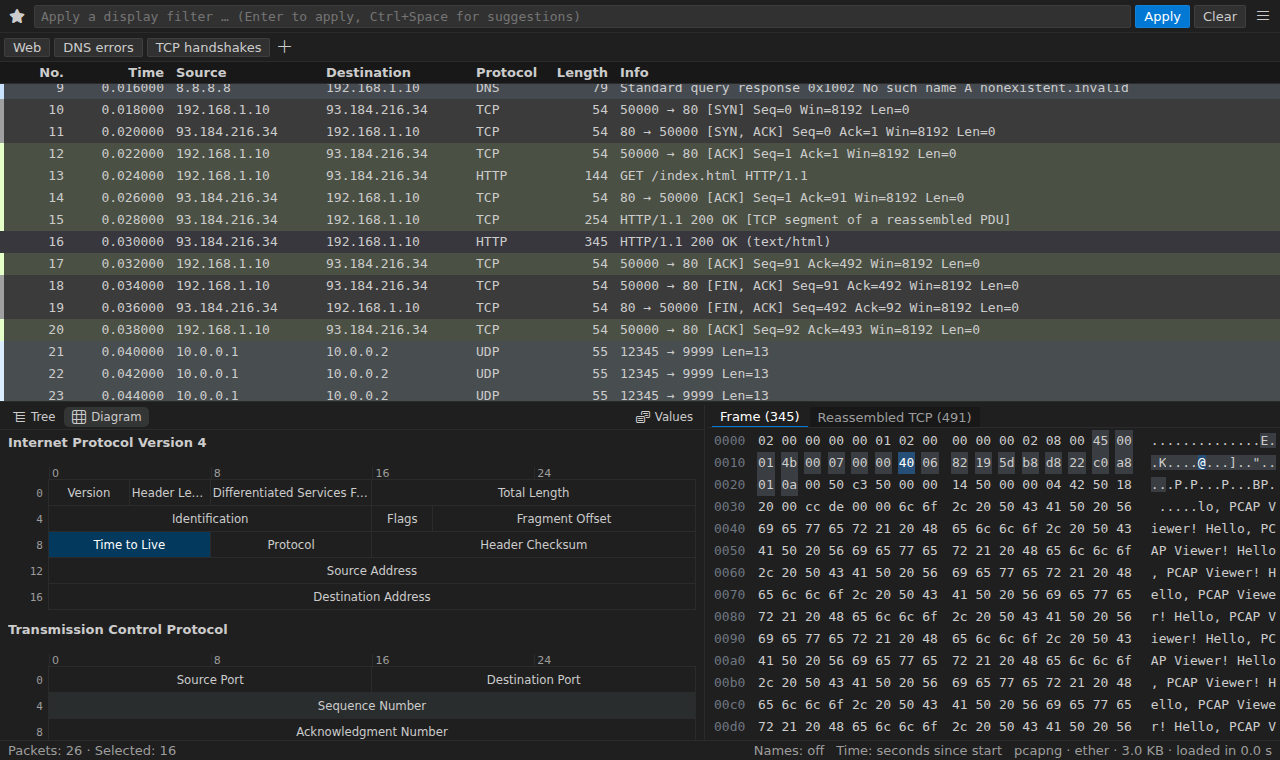
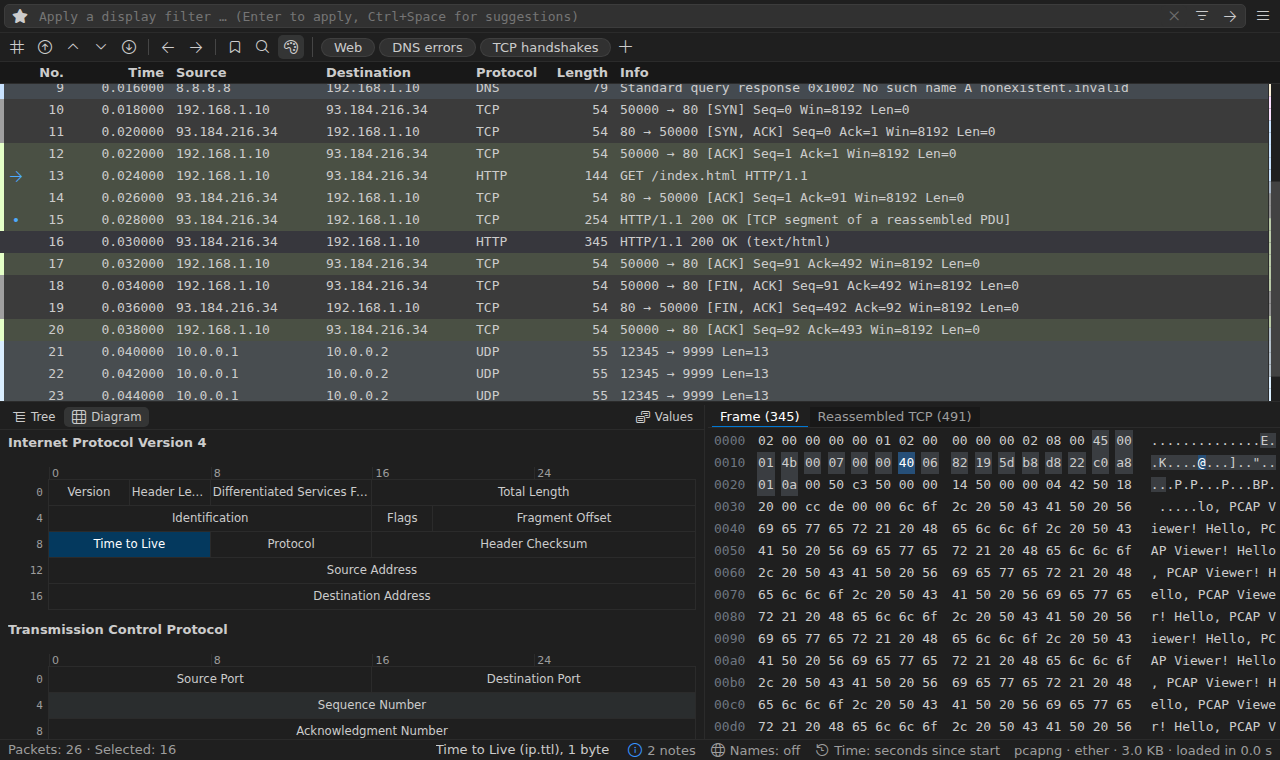
Docs and screenshots for the new menus and toolbar
Claude-Session: https://claude.ai/code/session_01SNBgFKKXN7HF4mNJjCzgic

diff --git a/CLAUDE.md b/CLAUDE.md
@@ -188,7 +188,8 @@ type="module" nonce>`: imports inherit the nonce, and VS Code's resource
   part of the UI (`core` = shared state, constants, element lookups and
   rpc, and imports nothing, so it is evaluated first; `host`, `list`,
   `columns`, `selection`, `detail`, `diagram`, `filterbar`, `autocomplete`,
-  `navigation`, menus, `status`…). Function declarations make the cycles
+  `navigation`, `menu` (the context-menu engine), `contextmenu`,
+  `commandmenu`, `toolbar`, `status`…). Function declarations make the cycles
   between modules safe; top-level code only touches `core` and its own
   module. Shared JSDoc types live in `globals.d.ts`. Type-checked via JSDoc +
   `tsconfig.webview.json` (`module: ES2022`). `codicons/` = the vendored Codicons font
@@ -816,7 +817,7 @@ substream)` (`… and http2.streamid eq N`). Views: the text ones
 - **Filter buttons** (`pcapViewer.filterButtons`: `{label, filter, comment?}`,
   `normalizeFilterButtons`, at most 50; window scope like saved filters): the
   host posts `filterButtons` on "ready" and on setting changes; the webview's
-  `#filter-buttons` toolbar (after `#filter-bar`, hidden when empty) applies a
+  `#filter-buttons` toolbar (in `#toolbar` after `#nav-tools`, hidden when empty) applies a
   button's filter on click (it goes into the filter box first) and marks the
   applied one `aria-pressed` (`updateFilterButtons`, from `updateStatus`). **+**
   posts `addFilterButton {filter}`; `contextmenu` (right-click, Shift+F10, the
@@ -1223,10 +1224,11 @@ fields -e frame.number` gives progress when filtering; without a filter
 - **Conversation filter and colorization** (row menu, `lib.conversationFilters`):
   the packet's conversations come from its exact detail tree (the
   innermost `eth.src/dst`, `ip.*`, `ipv6.*`, `tcp.stream`, `udp.stream`;
-  values that aren't addresses or numbers are dropped), shown as a second
-  flat menu at the same spot (`conversationMenu`; it fetches the exact
-  detail when the selected one is missing or a quick view, whose stream
-  numbers are the window's). _Conversation Filter_ applies the filter.
+  values that aren't addresses or numbers are dropped), shown as the
+  _Conversation Filter ›_ / _Colorize Conversation ›_ submenus
+  (`conversationItems`; `exactDetail` fetches the exact detail when the
+  selected one is missing or a quick view, whose stream numbers are the
+  window's). _Conversation Filter_ applies the filter.
   _Colorize Conversation_ posts `colorizeConversation`: the session keeps
   `temporaryRules` (`settingsModel.colorizeConversation`: newest first, the
   first `COLORIZE_PALETTE` color the others don't use, at most ten, i.e.
@@ -1968,15 +1970,17 @@ stream, sessionId}`. The query stays short: expert rows (sanitized by
     _Apply as Column_, rename and remove write for the capture's folder.
     `lib.cellFilter` builds cell filters (ip/ipv6/eth by address form; none for
     Time or Info). `lib.formatBytesAs` has the bytes-pane copy formats.
-- **Commands menu** (☰ `#filter-menu` after `#filter-clear`; `commandMenu.ts`,
+- **Commands menu** (☰ `#filter-menu` after `#filter-field`; `commandMenu.ts`,
   `main.js` `commandsMenu`): the list is built from package.json
   (`context.extension.packageJSON`: `contributes.commands` plus the first
   `contributes.keybindings` entry per command, `buildCommandMenu`), so a new
   command appears by itself; `GROUP_OF` gives its heading (Filters, Packets,
-  Statistics, Export, Capture, Editing, Dissectors, AI, Other; "Packets" was
-  added for navigation, marks, time reference and comments; a unit test fails
-  when a command has no explicit heading, and category "PCAP Statistics"
-  falls back to Statistics) and `REQUIRES` what it needs (selection, marks,
+  Streams, Statistics, Network Statistics, Service Statistics, Telephony,
+  Export, Capture, Editing, Dissectors, AI, Other; "Packets" was added for
+  navigation, marks, time reference and comments, and 0.20.0 split the 30
+  statistics by subject; a unit test fails when a command has no explicit
+  heading, and category "PCAP Statistics" falls back to Statistics; each
+  heading has a Codicon, `lib.COMMAND_GROUP_ICONS`) and `REQUIRES` what it needs (selection, marks,
   filter, capturing, ai). `EXCLUDED_COMMANDS` names what is left out and why
   (only `savedFilters`: the ★ button in the same bar). **Foldable groups**:
   `lib.commandMenuRows` turns the groups into rows (a heading per group,
@@ -2006,10 +2010,68 @@ stream, sessionId}`. The query stays short: expert rows (sanitized by
   (`lib.formatKeybinding`: "Ctrl+Shift+N", or the `mac` binding as "⌘⇧N";
   macOS is detected from the webview's navigator, which is the local machine
   even in a remote window). `.command-menu` reuses `.context-menu`; its
-  colors fall back to system colors when a theme variable is missing. The
-  filter bar wraps (`flex-wrap`, `#filter-field` 14em minimum), so on a
-  narrow editor the buttons go to a second line instead of squeezing the
-  input (e2e test at 320/480/800 px).
+  colors fall back to system colors when a theme variable is missing.
+  **Recently Used**: the last `MAX_RECENT_COMMANDS` (5) commands run from the
+  menu (`lib.rememberCommand`, `state.recentCommands` in the webview state)
+  come first under a label heading (not foldable, hidden while searching;
+  ← on them has no heading to go to). The filter bar wraps (`flex-wrap`,
+  `#filter-field` 14em minimum), so on a narrow editor ☰ goes to a second
+  line instead of squeezing the field (e2e test at 320/480/800 px).
+- **Context menus** (`viewer/menu.js`; `contextmenu.js` builds the row and
+  tree menus, `header.js` the header's, `detail.js` the bytes pane's):
+  `showMenu(x, y, entries)` with `MenuItem`s `{label, icon, hint, keys,
+action (null = disabled), checked, children, title}` and `"-"`
+  separators (the old `[label, action, checked]` tuples still work). The
+  root is `#context-menu`; a submenu is a `div.context-menu.submenu#context-menu-N`
+  appended to body beside its item (right, else left), its parent item
+  `aria-haspopup`/`aria-expanded`/`aria-controls`. `children` may be an
+  async function: "Loading…" meanwhile, a `generation` counter drops a
+  late answer (Conversation Filter ›, Colorize Conversation ›, Follow ›
+  read the exact detail). Hover opens a submenu after `OPEN_DELAY_MS`
+  (150); keys (a capture-phase document listener while a menu is open):
+  ↑/↓/Home/End over enabled items, → or Enter opens, ← or Esc closes one
+  level, Esc on the root and Tab close all and give the focus back, a
+  letter jumps (typeahead). An item's `keys` come from package.json
+  (`commandKeys(id)`, the ☰ list) or `viewerKeys("ctrl+a")` for the
+  webview's own keys. **Entries that can't apply are left out** (not
+  greyed): Apply/Prepare as Filter ›, Reset Colorization, Delete Packet
+  Comment, Build Filter, Protocol Preferences… only when they can act.
+  _Apply/Prepare as Filter ›_ hold `lib.filterChoices` (Selected, Not
+  Selected, and with a filter applied …and/…or (not) Selected), each with
+  its expression as the dimmed `hint`. _Follow ›_ lists
+  `lib.followOptions(detail.tree)` (the tree's protocols, nested ones too;
+  TCP + UDP when the detail can't be read) plus TCP Stream Graph for TCP.
+  Shift+F10 / the menu key fire `contextmenu` on the focused grid or tree
+  (button 0): the selected row's or node's menu opens below it. The
+  header menu sorts (`setSort`), and its columns are a _Columns ›_
+  submenu of checkboxes. e2e helpers: `pickMenu(...labels)` and
+  `menuLabels(level)`.
+- **Editor title bar** (package.json `menus["editor/title"]`, `submenus`):
+  Start Capture (Stop while `pcapViewer.capturing`), Find Packet, Follow
+  Stream, the `pcapViewer.statisticsMenu` submenu (every PCAP Statistics
+  command, grouped as in ☰), Toggle Packet Coloring in `navigation`; Reload,
+  the exports, Capture Report and Show Log in the overflow. Navigation
+  commands need an `icon` (a unit test checks, and that every statistic is
+  in the submenu).
+- **Filter field and toolbar** (`index.html`, `viewer/toolbar.js`):
+  `#filter-field` is the rounded control (border, focus outline via
+  `:has(#filter-input:focus-visible)`, validity tint and a 3 px left edge via
+  `:has(#filter-input.valid/.invalid)`); ★, ×, ✨, build and → are icon
+  buttons inside it (`#filter-apply`, `#filter-clear` keep their ids; × fades
+  when the box is empty but always works). `#toolbar` holds `#nav-tools`
+  (role toolbar, a roving tabindex: arrows/Home/End; `aria-disabled` rather
+  than `disabled`, so focus stays) and `#filter-buttons` (pills). Its
+  buttons run the webview's `runCommand` or post `runCommand` for host
+  commands (Go to Packet, Toggle Packet Coloring, whose `aria-pressed`
+  follows `state.coloring`); `updateToolbar()` runs from `updateStatus`.
+- **List density** (`pcapViewer.listDensity`: compact, normal, comfortable;
+  posted as `listDensity` on "ready" and on change, like `coloringStyle`):
+  `lib.densityRowHeight` (20/22/26 px) → `setRowHeight` sets
+  `state.rowHeight` and `--row-height` (list, tree and bytes rows) and keeps
+  the top row in place. Status bar items (`#status-lua`, `-names`, `-time`)
+  get a Codicon and a `.status-text` span from `status.js` (`setStatusText`);
+  the HTML buttons stay empty, since Prettier would put whitespace into
+  them and make `textContent` non-empty.
 - **Icons** are Codicons, VS Code's icon font (`@vscode/codicons`, pinned dev
   dependency). vsce packages with `--no-dependencies`, so
   `scripts/sync-codicons.mjs` (`pnpm run codicons`, run by `make update`)
@@ -2024,7 +2086,7 @@ stream, sessionId}`. The query stays short: expert rows (sanitized by
   `codiconFontLoaded` checks the editor and the panels). Icons are
   `<span class="codicon codicon-NAME" aria-hidden="true">` built with
   `icon(name)` (main.js and each panel script), so buttons carry an
-  `aria-label`. Checkable context-menu items (`showMenu`'s third element) are
+  `aria-label`. Checkable context-menu items (`checked`) are
   `menuitemcheckbox` with a check icon. Text symbols remain only inside text
   (● in `<option>`s and marked rows, ⚠ in a table cell, → in labels).
 - **ARIA structure** (checked by axe, see _Accessibility checks_): the
@@ -2164,3 +2226,5 @@ file format view: 0.17.0.
 Then extcap capture helpers (SSH, Cisco, Android, UDP, randpkt), Capture to
 Files with ring buffers, saved capture filters and the capture report: 0.18.0.
 Then H.323, MGCP and IAX2 calls in the VoIP panel: 0.19.0.
+Then context menus with submenus, a reorganised ☰ menu, editor title bar
+actions, a filter field and toolbar, list density and status bar items.

diff --git a/README.md b/README.md
@@ -130,6 +130,29 @@ registered under its name in lower case).
 - **Time formats** (relative, deltas, absolute, UTC, epoch) and a time
   reference (`Ctrl+T`).
 
+### Menus and toolbar
+
+- **Context menus with submenus**: right-click a packet or a field for _Apply
+  as Filter ›_ and _Prepare as Filter ›_ (Selected, Not Selected and, with a
+  filter applied, …and/…or (not) Selected, each showing the filter it makes),
+  _Conversation Filter ›_, _Colorize Conversation ›_, _Follow ›_ (the streams
+  that packet is part of), _Copy ›_ and more, with icons and key bindings.
+  What doesn't apply to the packet isn't listed. `Shift+F10` or the menu key
+  opens them from the keyboard.
+
+  ![The packet list's menu: Follow open on an HTTP packet, offering its TCP and HTTP streams and the TCP stream graph](media/screenshots/menus.png)
+
+- **☰ All commands** at the end of the filter bar: every PCAP Lens command
+  under its heading (Packets, Streams, Statistics, Network Statistics, Service
+  Statistics, Telephony, Export…), the ones you ran lately first; type to
+  filter.
+- **The editor's title bar**: Start/Stop Capture, Find Packet, Follow Stream,
+  a _Statistics_ menu with every report, and the coloring switch; Reload, the
+  exports and the capture report in its _…_ menu.
+- **Toolbar** under the filter: go to a packet, first, previous, next, last,
+  back, forward, mark, find and coloring.
+- **Row height**: `pcapViewer.listDensity` (compact, normal, comfortable).
+
 ### Display filters
 
 - Wireshark syntax, **validated as you type**; invalid filters are never applied.

diff --git a/CHANGELOG.md b/CHANGELOG.md
@@ -7,6 +7,32 @@ commit) that made it. The format follows
 
 ## Unreleased
 
+### Added
+
+- Context menus with submenus (_Apply as Filter ›_, _Prepare as Filter ›_,
+  _Conversation Filter ›_, _Colorize Conversation ›_, _Follow ›_, _Copy ›_),
+  icons, key bindings and keyboard use; entries that don't apply are left out,
+  and _Follow ›_ lists the packet's own streams. [c2018f3]
+- Actions in the editor's title bar: Start/Stop Capture, Find, Follow Stream,
+  a Statistics menu and the coloring switch. [dedadc8]
+- A toolbar under the filter (go to, first/previous/next/last, back/forward,
+  mark, find, coloring) and `pcapViewer.listDensity` for the row height.
+  [95f8023]
+
+### Changed
+
+- ☰ All commands: icons on the headings, recently used commands first, and
+  the statistics split into Streams, Statistics, Network Statistics, Service
+  Statistics and Telephony. [76ca42f]
+- The filter bar is one rounded field with its buttons inside and a coloured
+  validity edge; filter buttons are pills; the status bar's items have icons.
+  [95f8023]
+
+[c2018f3]: https://github.com/DenPaz/vsc_pcap_viewer/commit/c2018f3
+[dedadc8]: https://github.com/DenPaz/vsc_pcap_viewer/commit/dedadc8
+[95f8023]: https://github.com/DenPaz/vsc_pcap_viewer/commit/95f8023
+[76ca42f]: https://github.com/DenPaz/vsc_pcap_viewer/commit/76ca42f
+
 ## 0.19.0 — 2026-10-23
 
 ### Added
